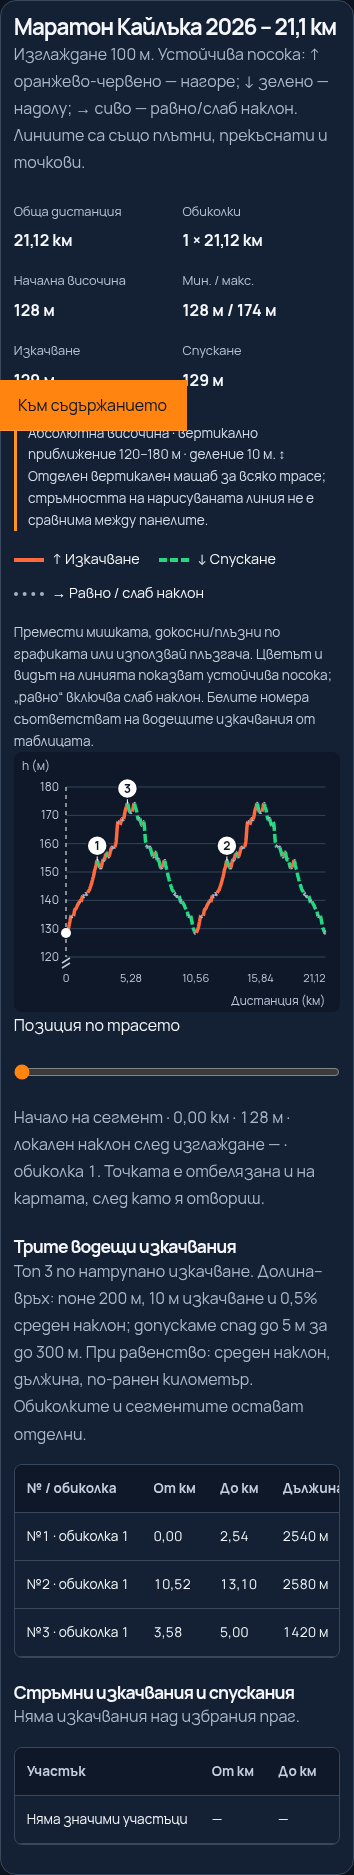
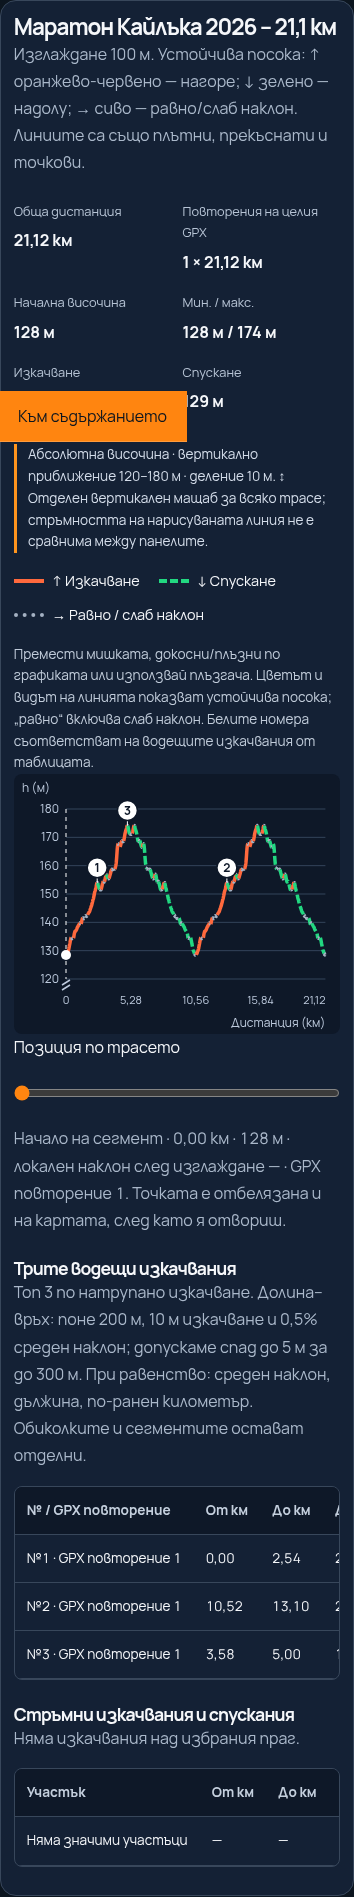
feat: add private GPX diagnostics and clarify whole-file repetitions

diff --git a/src/scripts/route-analysis.ts b/src/scripts/route-analysis.ts
@@ -56,7 +56,7 @@ document.querySelectorAll<HTMLElement>("[data-route-analysis]").forEach((root) =
       dot.setAttribute("cx", String(x(p.x))); dot.setAttribute("cy", String(y(p.ele)));
       svg.dataset.selectedDistance = String(p.x);
       const direction = p.grade === undefined ? "Начало на сегмент" : Math.abs(p.grade) < .0035 ? "→ Слаб наклон" : p.grade > 0 ? "↑ Нагоре" : "↓ Надолу";
-      put(card, "[data-profile-readout]", `${direction} · ${km(p.x)} км · ${metres(p.ele)} · локален наклон след изглаждане ${percent(p.grade)} · обиколка ${p.lap}. Точката е отбелязана и на картата, след като я отвориш.`);
+      put(card, "[data-profile-readout]", `${direction} · ${km(p.x)} км · ${metres(p.ele)} · локален наклон след изглаждане ${percent(p.grade)} · GPX повторение ${p.lap}. Точката е отбелязана и на картата, след като я отвориш.`);
       mapFor(slot)?.selectPoint(p);
     }
     slider.oninput = () => choose(Number(slider.value));
@@ -85,7 +85,7 @@ document.querySelectorAll<HTMLElement>("[data-route-analysis]").forEach((root) =
       const positions = [-15, 20, -40, 45, -65, 70].map((offset) => Math.max(18, Math.min(193, y(peak.ele) + offset)));
       const cy = positions.find((candidate) => annotations.every((p) => Math.abs(p.x - cx) >= 24 || Math.abs(p.y - candidate) >= 24)) ?? positions[0];
       annotations.push({ x: cx, y: cy });
-      const label = `Изкачване №${climb.rank}, обиколка ${climb.lap}, ${km(climb.startM)}–${km(climb.endM)} км, +${metres(climb.gainM)}, средно ${percent(climb.averageGrade)}`;
+      const label = `Изкачване №${climb.rank}, GPX повторение ${climb.lap}, ${km(climb.startM)}–${km(climb.endM)} км, +${metres(climb.gainM)}, средно ${percent(climb.averageGrade)}`;
       const marker = svgNode("g", { "data-climb-marker": climb.rank, tabindex: 0, role: "button", "aria-label": label });
       marker.append(svgNode("title", {}, label), svgNode("line", { x1: cx, x2: x(peak.x), y1: cy + 9, y2: y(peak.ele), stroke: "white" }), svgNode("circle", { cx, cy, r: 10, fill: "#fff", stroke: "#0e1828", "stroke-width": 1.5 }), svgNode("text", { x: cx, y: cy + 4, fill: "#0e1828", "text-anchor": "middle", "font-size": 12, "font-weight": "bold" }, String(climb.rank)));
       const activate = () => { slider.value = String(climb.endM); choose(climb.endM, peak); };
@@ -107,7 +107,7 @@ document.querySelectorAll<HTMLElement>("[data-route-analysis]").forEach((root) =
     }
     put(card, "[data-profile-notice]", profile.available ? `Изглаждане ${smoothing.value} м. Устойчива посока: ↑ оранжево-червено — нагоре; ↓ зелено — надолу; → сиво — равно/слаб наклон. Линиите са също плътни, прекъснати и точкови.${noise}` : PROFILE_MESSAGES[route.status === "ready" ? "unavailable" : route.status]);
     const stats = card.querySelector("[data-profile-stats]")!; stats.replaceChildren();
-    const entries = [["Обща дистанция", `${km(profile.distanceM)} км`], ["Обиколки", `${route.lapCount} × ${km(profile.baseDistanceM)} км`], ["Начална височина", metres(profile.startM)], ["Мин. / макс.", `${metres(profile.minM)} / ${metres(profile.maxM)}`], ["Изкачване", metres(profile.ascentM)], ["Спускане", metres(profile.descentM)]];
+    const entries = [["Обща дистанция", `${km(profile.distanceM)} км`], ["Повторения на целия GPX", `${route.lapCount} × ${km(profile.baseDistanceM)} км`], ["Начална височина", metres(profile.startM)], ["Мин. / макс.", `${metres(profile.minM)} / ${metres(profile.maxM)}`], ["Изкачване", metres(profile.ascentM)], ["Спускане", metres(profile.descentM)]];
     for (const [label, value] of entries) { const div = document.createElement("div"), dt = document.createElement("dt"), dd = document.createElement("dd"); dt.textContent = label; dd.textContent = value; div.append(dt, dd); stats.append(div); }
     card.querySelector<HTMLElement>("[data-profile-details]")!.hidden = !profile.available;
     const body = card.querySelector("[data-profile-hills]")!; body.replaceChildren();
@@ -115,7 +115,7 @@ document.querySelectorAll<HTMLElement>("[data-route-analysis]").forEach((root) =
     if (!profile.available) return;
     const climbs = topClimbs(profile);
     put(card, "[data-top-climbs-summary]", `${climbs.length < 3 ? `Намерени са ${climbs.length} изкачвания над прага; не допълваме до три с измислени участъци.` : "Топ 3 по натрупано изкачване."} Долина–връх: поне 200 м, 10 м изкачване и 0,5% среден наклон; допускаме спад до 5 м за до 300 м. При равенство: среден наклон, дължина, по-ранен километър. Обиколките и сегментите остават отделни.`);
-    for (const c of climbs) row(topBody, [`№${c.rank} · обиколка ${c.lap}`, km(c.startM), km(c.endM), `${Math.round(c.lengthM)} м`, `+${metres(c.gainM)}`, percent(c.averageGrade)]).dataset.climbRank = String(c.rank);
+    for (const c of climbs) row(topBody, [`№${c.rank} · GPX повторение ${c.lap}`, km(c.startM), km(c.endM), `${Math.round(c.lengthM)} м`, `+${metres(c.gainM)}`, percent(c.averageGrade)]).dataset.climbRank = String(c.rank);
     if (!climbs.length) row(topBody, ["Няма изкачвания над прага", "—", "—", "—", "—", "—"]);
     const strongest = [...profile.hills].filter((h) => h.type === "up").sort((a, b) => b.gainM - a.gainM)[0];
     put(card, "[data-hills-summary]", strongest ? `Най-голямо изкачване по натрупване: ${km(strongest.startM)}–${km(strongest.endM)} км, +${metres(strongest.gainM)}, средно ${percent(strongest.averageGrade)}. Това не е обща оценка за трудност.` : "Няма изкачвания над избрания праг.");
@@ -163,7 +163,7 @@ document.querySelectorAll<HTMLElement>("[data-route-analysis]").forEach((root) =
       const body = root.querySelector("[data-pace-rows]")!; body.replaceChildren();
       for (const r of plan.rows) row(body, [`${km(r.startM)}–${km(r.endM)}`, formatPace(r.pace), formatDuration(r.seconds), formatDuration(r.cumulativeSeconds)]);
       const checkpoints = root.querySelector("[data-pace-checkpoints]")!; checkpoints.replaceChildren();
-      for (const p of plan.checkpoints) { const li = document.createElement("li"); li.textContent = `Обиколка ${p.lap} · ${km(p.distanceM)} км · ${formatDuration(p.seconds)}`; checkpoints.append(li); }
+      for (const p of plan.checkpoints) { const li = document.createElement("li"); li.textContent = `GPX повторение ${p.lap} · ${km(p.distanceM)} км · ${formatDuration(p.seconds)}`; checkpoints.append(li); }
       result.hidden = false;
     } catch { put(root, "[data-pace-status]", "Планът не може да се изчисли. Провери времето, разрешенията за профила и параметрите (U: 0–8, D: 0–4)."); }
   }

diff --git a/docs/PRIVATE-GPX-REVIEW.md b/docs/PRIVATE-GPX-REVIEW.md
@@ -1,0 +1,42 @@
+# Непублична проверка на предоставени GPX файлове
+
+Този PR добавя само общ инструмент и синтетични тестове. Личните GPX, координати, локални browser fixtures, резултати, изображения и ZIP не са в GitHub, Pages CMS или Cloudflare. Публичният каталог остава непроменен. Не е създаван нов клон.
+
+## Локален инструмент
+
+```sh
+node scripts/review-private-gpx.mjs --output /private/existing-folder/new-report.json /private/route-a.gpx /private/route-b.gpx
+```
+
+Входът остава извън публичното хранилище. Изходната папка трябва да съществува, да е извън checkout-а, а файлът — нов. Инструментът отказва изход вътре в проекта (включително през символна връзка и в папка, чието име започва с `..`), не презаписва файл и записва с права `0600`. Не импортира съдържание, не създава маршрути, не качва, не променя разрешения и не извиква външни услуги. Не е част от build или deployment.
+
+Докладът съдържа само изрично избрани агрегати: дистанция, пълнота на височините, разстояния между точки, начално/крайно раздалечаване, сурово изкачване/спускане, разлика min–max, резултати при 25/50/100/200 м, водещи изкачвания и стръмни участъци. Няма координатни масиви, имена от източника, пътища, timestamps, пулс или каданс. Дори агрегатният доклад се запазва непубличен до преглед от собственика.
+
+`publicationApproved` винаги е `false`: успешната техническа проверка не разрешава публично показване и не доказва геодезична точност. Тестовете на инструмента използват само синтетични данни.
+
+## Еднаква методика, без настройване към очакван резултат
+
+Използват се същите чисти функции като сайта: сферични разстояния по GPX сегмент, дистанционно претеглено изглаждане, пресемплиране през поне 10 м, сумиране на положителните/отрицателните промени и запазените правила за изкачвания. Четирите прозореца се сравняват без корекция, избрана за достигане на конкретна денивелация. Min–max височина е диапазон, не общо изкачване.
+
+При пълен състезателен запис `lapCount: 1` означава едно използване на **целия GPX**, дори да съдържа две физически обиколки. Затова надписите в анализатора и CMS са уточнени като „GPX повторение“. Не се удвоява дистанцията и не се добавя изкуствен преход. Ако физическите обиколки не са отделени в сегменти/метаданни, не се измислят автоматично граници или класиране по физическа обиколка.
+
+## Преглед в истинския интерфейс
+
+За частната проверка публичният `dist/` се обслужва само на loopback. Частните профили и каталогът се подават в паметта на локален headless Chromium чрез request interception; не се записват в `src/content`, `src/data`, `public`, `dist` или файловете на публичните тестове. Всички външни заявки, включително OSM плочки, се прекъсват преди изпращане. Картата може да показва локално само векторната следа без външен фон.
+
+Проверяват се действителните графики, общата километрова скала и относителното наслагване на три маршрута, четирите прозореца, таблиците, точният сбор на темпото и маркерът на картата при 320/390/768/1440 px. Частните screenshots се пазят извън checkout-а, без прикачване към публичния PR.
+
+## Преди евентуално публикуване
+
+Собственикът трябва да прегледа конкретната обработена карта, особено началото/края и отклоненията. Близки старт и финал и липса на timestamps не доказват отсъствие на лични места. Без независим официален файл не се удостоверява точно съвпадение с официалното състезателно трасе. Личният запис се означава като личен състезателен запис, не като официален GPX на организатора.
+
+Необходимо е отделно изрично одобрение за:
+
+1. Точната обработена траектория, включително нуждата от изрязване на начало/край/отклонения.
+2. Публичната карта и височинния анализ — координатите и височините стават технически достъпни чрез JSON, не само като изображение.
+3. Качване на одобрената версия в **публичния GitHub** и публикуването ѝ чрез Cloudflare, включително preview. `draft` не скрива файл в GitHub.
+4. GPX изтегляне — отделен избор, който не се включва автоматично заедно с картата.
+
+Файлове от собствен експорт не се представят като лицензирано копие на официалния маршрут. [Условията на Strava, раздел „Ownership of Content“](https://www.strava.com/legal/terms?hl=en-gb), разграничават собственото съдържание и чуждите права; тук няма достъп до Strava API или чужди записи. Това не заменя съгласието на собственика за публичното разкриване на собствената му траектория. При нужда от действително официални GPX се прилага отделната [проверка на официалните източници](OFFICIAL-GPX-NEXT-STAGE.md).
+
+Без изрично одобрение се качва само кодът за общия инструмент, документацията и синтетичните тестове. Няма merge в `main`.

diff --git a/docs/DIDO-v0.7-GPX.md b/docs/DIDO-v0.7-GPX.md
@@ -50,7 +50,7 @@
 
 В тестовия клон са включени `elevationTrusted` и `allowElevationAnalysis` за този конкретен проверен файл. Съществуващите публични разрешения са непроменени, а обработените височини вече присъстват в разрешения GPX за изтегляне. Оригиналът, геометрията, съдържанието и свързаното състезание са запазени. Точната обосновка и SHA-256 са в проверката. Съществуващата статистика „GPX, без изглаждане“ е ясно разграничена от изгладените стойности в анализатора.
 
-Само този реален маршрут е наличен. Сравненията с две и три трасета са тествани със синтетични данни само в браузърния тест; те не са публични записи.
+Само този реален маршрут е наличен публично. Предоставени лични записи за Плевен и София са проверени отделно, само извън checkout-а и в локален браузър; не са нови публични записи. Публичните тестове използват синтетични данни. [Процес за непублична проверка](PRIVATE-GPX-REVIEW.md).
 
 Липсват и не са заменяни:
 
@@ -60,9 +60,9 @@
 
 ## Pages CMS и обиколки
 
-Незадължителни настройки в „Моите маршрути“: брой обиколки (1–10, начално 1), разрешение за височинен анализ (начално изключено), потвърждение за надеждност (начално изключено), включване в сравнение/калкулатор (начално включено само за вече разрешени публични карти). Старите записи без новите полета работят. Невалиден брой обиколки изключва новите инструменти за записа, без да прекъсва сайта.
+Незадължителни настройки в „Моите маршрути“: брой повторения на целия GPX (1–10, начално 1), разрешение за височинен анализ (начално изключено), потвърждение за надеждност (начално изключено), включване в сравнение/калкулатор (начално включено само за вече разрешени публични карти). Старите записи без новите полета работят. Невалиден брой обиколки изключва новите инструменти за записа, без да прекъсва сайта.
 
-Обща дистанция = измерена обработена обиколка × брой обиколки; **не** се приема автоматично официална полумаратонска дистанция. Например приблизително 10,48 × 2 е приблизително 20,96 км по GPX. Профилът се повтаря по километровата ос, без преход край–начало. Картата и GPX запазват една обработена геометрия. Не избирай 2 за GPX, който вече съдържа цялото състезание. Кайлъка остава с една пълна налична геометрия, без допълнително повторение.
+Обща дистанция = измерен обработен GPX × брой повторения; **не** се приема автоматично официална полумаратонска дистанция. Например приблизително 10,48 × 2 е приблизително 20,96 км по GPX. Профилът се повтаря по километровата ос, без преход край–начало. Картата и GPX запазват една обработена геометрия. Не избирай 2 за GPX, който вече съдържа цялото състезание. Кайлъка остава с една пълна налична геометрия, без допълнително повторение.
 
 Новият `analysis.json` се генерира само при публикуван и публично одобрен маршрут, разрешена карта, отделно разрешен анализ, потвърдени пълни височини, валидни обиколки и достатъчно гъста геометрия. Използва същото изрязване като GPX/картата; съдържа само обработени `lat/lon/ele` и брой обиколки, без timestamps, extensions, pulse, cadence или източникови пътища. HTML каталогът сериализира само разрешен списък от полета. Build проверката отхвърля неразрешени/променени профили; чистият build премахва отнетите публикации от следващия deployment (не изтрива стари изтеглени копия или стари previews).
 
@@ -91,3 +91,5 @@ Opt-in browser тестовете на 320/390/768/1440 px проверяват 
 За повторение: обслужи `dist/` на локален HTTP адрес и изпълни `npm run verify` с `DIDO_BROWSER_MODULE` (път до инсталиран Playwright), `DIDO_BROWSER_URL` и по желание `DIDO_CHROMIUM`. Без тези променливи двата браузърни теста са opt-in и се отчитат като skipped; production build няма нови изисквания. Реален запис през CMS не е извършван.
 
 Финален резултат: `npm run verify` с включени двата браузърни теста — **60/60 успешни, 0 пропуснати**; Astro/TypeScript — **0 грешки, 0 предупреждения**; Pages CMS и production build — успешни. Браузърният модул е повторен и за окончателните screenshots след проверките на фокуса и докосването. Снимките на Кайлъка се заснемат в отделен чист browser context, без остатъчно състояние от взаимодействията на теста.
+
+След локалната проверка на предоставени лични записи: `npm run verify` с двата браузърни теста — **63/63 успешни**, 0 пропуснати; Astro/TypeScript — 0 грешки и предупреждения. Частните данни и резултати не са включени в PR или deployment.

diff --git a/docs/OFFICIAL-GPX-NEXT-STAGE.md b/docs/OFFICIAL-GPX-NEXT-STAGE.md
@@ -4,6 +4,12 @@
 
 **За следващия етап собственикът трябва да приложи двата официални файла**, годината на всеки, точната страница/връзка за изтегляне и наличните лиценз/условия или потвърждение за публично показване и препубликуване. Самото изтегляне от официален сайт не удостоверява разрешение за повторно хостване.
 
+## Последваща непублична проверка на лични записи
+
+Предоставени са обработени лични записи за Плевен и София, не официалните файлове, описани по-горе. Те се проверяват само извън checkout-а и чрез локален браузър, без нови записи в публичното съдържание, CMS или Cloudflare preview. И двата вече съдържат целия полумаратон и за тях е зададено **едно повторение на целия GPX (`lapCount: 1`)**, независимо от физическите обиколки в записа. Публикуването остава изключено до отделно изрично одобрение на конкретната обработена траектория и обхвата на достъп.
+
+[Локален процес за проверка без публикуване](PRIVATE-GPX-REVIEW.md). Личните координати, файлове, отчети и screenshots не са част от този PR. Те не бива да се качват като „чернова“ в публичното GitHub хранилище: черновата спира сайта, но не скрива оригинала от GitHub.
+
 ## Проверени официални източници и условия
 
 ### Плевен
